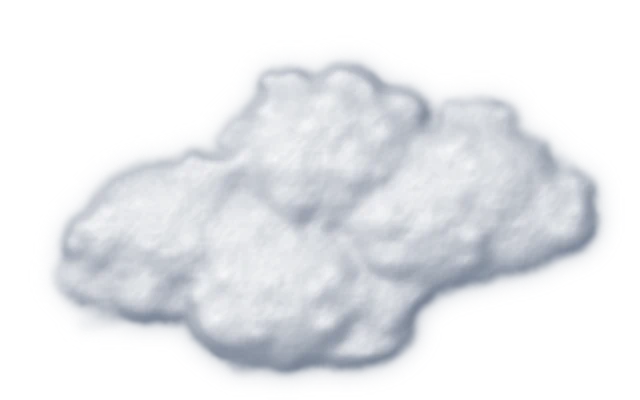
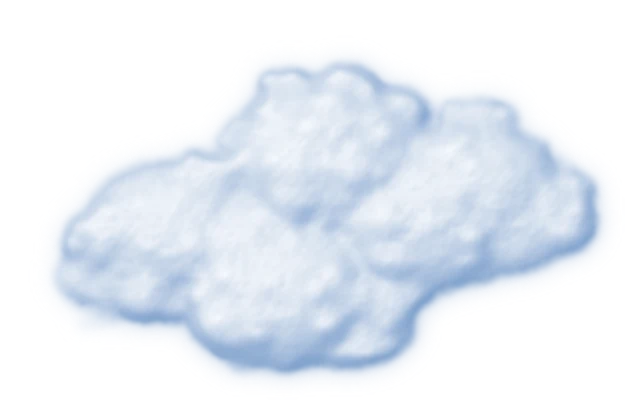
feat: update cloud images and enhance visual elements in the Journey component

diff --git a/src/components/landing/journey/animate.ts b/src/components/landing/journey/animate.ts
@@ -13,8 +13,9 @@ const win = (p: number, a: number, b: number) => {
 
 type Point = { x: number; y: number; ang: number };
 
-/** Opacité maximale des nuages de l'introduction (au-dessus du voile sombre, sous le titre). */
-const INTRO_CLOUD_OPACITY = 0.62;
+/** Opacité maximale des nuages : introduction (au-dessus du ciel, sous le titre) et vol au-dessus de la carte. */
+const INTRO_CLOUD_OPACITY = 0.6;
+const FLIGHT_CLOUD_OPACITY = 0.6;
 
 function at(path: SVGPathElement, len: number, t: number): Point {
   const l = cl(t, 0, 1) * len;
@@ -49,7 +50,7 @@ export function startJourney(sec: HTMLElement) {
   const stage = $<HTMLElement>("#stage");
   const cam = $<SVGGElement>("#cam");
   const cam2 = $<SVGGElement>("#cam2");
-  const veil = $<SVGRectElement>("#veil");
+  const veil = $<SVGGElement>("#veil");
   const P = { A: $<SVGPathElement>("#rA"), R: $<SVGPathElement>("#rR"), S: $<SVGPathElement>("#rS") };
   const B = [$<SVGPathElement>("#bA"), $<SVGPathElement>("#bR"), $<SVGPathElement>("#bS")];
   const L = { A: P.A.getTotalLength(), R: P.R.getTotalLength(), S: P.S.getTotalLength() };
@@ -139,7 +140,12 @@ export function startJourney(sec: HTMLElement) {
       el.setAttribute("y", (ey - ry).toFixed(1));
       el.setAttribute("width", (2 * rx).toFixed(1));
       el.setAttribute("height", (2 * ry).toFixed(1));
-      el.setAttribute("opacity", (INTRO_CLOUD_OPACITY * (1 - rev)).toFixed(3));
+      /* côté texte (gauche sur ordinateur, bas sur mobile), les nuages se fondent dans la brume :
+         sous le voile bleu nuit, ils paraîtraient gris comme des nuages d'orage */
+      const haze = mobile
+        ? 1 - 0.9 * sm(s(ey, Ht * 0.5, Ht * 0.72))
+        : 0.1 + 0.9 * sm(s(ex, Wd * 0.2, Wd * 0.48));
+      el.setAttribute("opacity", (INTRO_CLOUD_OPACITY * haze * (1 - rev)).toFixed(3));
     });
 
     /* itinéraires */
@@ -204,7 +210,7 @@ export function startJourney(sec: HTMLElement) {
 
     /* nuages (parallaxe au-dessus de la carte) */
     const par = 1.7;
-    const cop = alt * (1 - w) * 0.9 * (p < 0.34 ? 1 : 0) * sm(s(p, 0.07, 0.12));
+    const cop = alt * (1 - w) * FLIGHT_CLOUD_OPACITY * (p < 0.34 ? 1 : 0) * sm(s(p, 0.07, 0.12));
     skyClouds.forEach((d, c) => {
       const el = cEls[c];
       const cx = A.x + (d[0] - C.x) * sc * par, cy = A.y + (d[1] - C.y) * sc * par, sz = d[2] * sc * par;

diff --git a/src/components/landing/services/services.css b/src/components/landing/services/services.css
@@ -62,9 +62,9 @@
 /* ---- panneau illustré ---- */
 .svc .art{position:relative;min-height:0;border-radius:20px;overflow:hidden}
 .svc .art svg{position:absolute;inset:0;width:100%;height:100%;overflow:visible}
-.art-truck{background:radial-gradient(circle at 78% 24%,rgba(248,184,11,.18),transparent 42%),linear-gradient(180deg,#18191c,#212328 68%)}
+.art-truck{background:linear-gradient(180deg,#18191c,#212328 68%)}
 .art-ship{background:linear-gradient(180deg,#FFD35A 0%,#F9BE1F 62%)}
-.art-plane{background:linear-gradient(180deg,#e6e9ee 0%,#f4f5f7 100%)}
+.art-plane{background:linear-gradient(180deg,#b4b9c1 0%,#c9cdd3 100%)}
 .art-customs,.art-logistics,.art-consulting{background-size:40px 40px;background-position:center}
 .art-customs{background-color:rgba(22,22,22,.07);background-image:linear-gradient(rgba(22,22,22,.07) 1px,transparent 1px),linear-gradient(90deg,rgba(22,22,22,.07) 1px,transparent 1px)}
 .art-logistics{background-color:#F2F3F5;background-image:radial-gradient(rgba(22,22,22,.16) 1.4px,transparent 1.6px);background-size:22px 22px}
@@ -73,7 +73,6 @@
 /* étiquettes flottantes */
 .svc .chip{position:absolute;z-index:1;display:inline-flex;align-items:center;gap:8px;padding:7px 13px;border-radius:99px;font-size:.8rem;font-weight:500;line-height:1.2;white-space:nowrap;background:rgba(255,255,255,.9);color:#161616;box-shadow:0 8px 20px -10px rgba(22,22,22,.45);backdrop-filter:blur(8px);transition:opacity .6s .35s}
 .svc .chip i{width:7px;height:7px;border-radius:50%;background:#F8B80B;box-shadow:0 0 0 3px rgba(248,184,11,.25)}
-.svc .chip.c1{top:16px;left:16px}
 .svc .chip.c2{right:16px;bottom:16px;transition-delay:.5s}
 .art-truck .chip,.art-consulting .chip{background:rgba(22,22,22,.72);color:#F2F3F5;box-shadow:inset 0 0 0 1px rgba(242,243,245,.12)}
 .art-ship .chip i,.art-customs .chip i{background:#161616;box-shadow:0 0 0 3px rgba(22,22,22,.15)}
@@ -144,9 +143,6 @@
 .svc-stack.js .svc:not(.seen) .chip{opacity:0}
 
 /* ---- tablette / mobile ---- */
-@media (max-width:1100px) and (min-width:821px){
-  .svc .chip.c1{display:none}
-}
 @media (max-width:820px){
   .svc{border-radius:20px;top:calc(72px + var(--i) * 12px);height:calc(100svh - 92px - var(--i) * 12px);min-height:470px;max-height:720px}
   .svc .in{grid-template-columns:1fr;grid-template-rows:auto 1fr;gap:16px;padding:14px}

diff --git a/src/components/landing/services/ServiceArt.tsx b/src/components/landing/services/ServiceArt.tsx
@@ -12,17 +12,13 @@ const ARROW = "/brand/lst-fleche.png";
  * carte au premier plan (classe `.on` posée par ServiceStack).
  */
 export function ServiceArt({ kind }: { kind: ServiceArtKind }) {
-  const { scene, chips } = arts[kind];
+  const { scene, chip } = arts[kind];
   return (
     <div className={`art art-${kind}`} aria-hidden="true">
       {scene}
-      <span className="chip c1">
-        <i />
-        {chips[0]}
-      </span>
       <span className="chip c2">
         <i />
-        {chips[1]}
+        {chip}
       </span>
     </div>
   );
@@ -77,9 +73,6 @@ const truck = (
         <stop offset="1" stopColor="#F8B80B" stopOpacity="0" />
       </linearGradient>
     </defs>
-
-    <circle cx="372" cy="98" r="80" fill="#F8B80B" opacity=".07" />
-    <circle cx="372" cy="98" r="40" fill="#F8B80B" />
 
     <g fill="#26282d">
       {CITY.map(([x, w, h]) => (
@@ -425,11 +418,12 @@ const consulting = (
   </svg>
 );
 
-const arts: Record<ServiceArtKind, { scene: React.ReactNode; chips: [string, string] }> = {
-  truck: { scene: truck, chips: ["National & international", "Porte-à-porte"] },
-  ship: { scene: ship, chips: ["20’ · 40’ · 40’ HC", "Import / Export"] },
-  plane: { scene: plane, chips: ["Envois urgents", "Groupage aérien"] },
-  customs: { scene: customs, chips: ["Documents contrôlés", "Incoterms"] },
-  logistics: { scene: logistics, chips: ["Coordination multimodale", "Flux planifiés"] },
-  consulting: { scene: consulting, chips: ["Diagnostic", "Optimisation des coûts"] },
+/** Illustration et étiquette (en bas à droite) de chaque carte. */
+const arts: Record<ServiceArtKind, { scene: React.ReactNode; chip: string }> = {
+  truck: { scene: truck, chip: "Porte-à-porte" },
+  ship: { scene: ship, chip: "Import / Export" },
+  plane: { scene: plane, chip: "Groupage aérien" },
+  customs: { scene: customs, chip: "Incoterms" },
+  logistics: { scene: logistics, chip: "Flux planifiés" },
+  consulting: { scene: consulting, chip: "Optimisation des coûts" },
 };

diff --git a/src/components/landing/journey/scene.ts b/src/components/landing/journey/scene.ts
@@ -74,7 +74,11 @@ function buildScene() {
 
   // Nuages de l'introduction (ils s'écartent au début du défilement).
   const introClouds: IntroCloud[] = [];
-  for (let n = 0; n < 16; n++) introClouds.push({ x: rnd(), y: rnd(), r: 110 + rnd() * 230, sp: 0.6 + rnd() * 0.8 });
+  // Comme une mer de nuages vue d'avion : beaucoup de petits cumulus et quelques gros.
+  for (let n = 0; n < 26; n++) {
+    const big = rnd() < 0.3;
+    introClouds.push({ x: rnd(), y: rnd(), r: big ? 180 + rnd() * 110 : 60 + rnd() * 100, sp: 0.6 + rnd() * 0.8 });
+  }
 
   return { roads, blocks, stacks, boxes, introClouds };
 }
@@ -88,10 +92,13 @@ export const skyClouds: [number, number, number][] = [
 ];
 
 /**
- * Textures de cumulus vus du dessus (640 × 400, soleil en haut à gauche) et leurs ombres portées.
+ * Textures de cumulus vus du dessus (640 × 400, soleil en haut à gauche, ombres teintées par le bleu du ciel)
+ * et leurs ombres portées.
  * Générées une fois pour toutes (bruit fractal + éclairage) : seules des transformations sont animées.
  */
-export const cloudTexture = (i: number) => `/images/clouds/cloud-${(i % 4) + 1}.webp`;
-export const cloudShadow = (i: number) => `/images/clouds/cloud-shadow-${(i % 4) + 1}.webp`;
+/** À incrémenter quand les images sont régénérées : force les navigateurs à recharger les nouvelles. */
+const CLOUDS_VERSION = 2;
+export const cloudTexture = (i: number) => `/images/clouds/cloud-${(i % 4) + 1}.webp?v=${CLOUDS_VERSION}`;
+export const cloudShadow = (i: number) => `/images/clouds/cloud-shadow-${(i % 4) + 1}.webp?v=${CLOUDS_VERSION}`;
 /** Décalage de l'ombre au sol (vers le bas à droite, à l'opposé du soleil), en coordonnées de la carte. */
 export const CLOUD_SHADOW_OFFSET = { x: 90, y: 140 };

diff --git a/src/components/landing/journey/Journey.tsx b/src/components/landing/journey/Journey.tsx
@@ -38,9 +38,16 @@ export function Journey() {
               <path d="M0 30q15-8 30 0t30 0" fill="none" stroke="#9fd8ff" strokeOpacity=".13" strokeWidth="2" />
               <path d="M66 52q10-5 20 0" fill="none" stroke="#9fd8ff" strokeOpacity=".08" strokeWidth="1.5" />
             </pattern>
-            <radialGradient id="veilG" cx="60%" cy="45%" r="75%">
-              <stop offset="0" stopColor="#23262c" />
-              <stop offset="1" stopColor="#0b0c0e" />
+            {/* ciel de l'introduction : même bleu profond que la mer (--water, #0b2e4c), à peine nuancé,
+                pour que le passage du ciel à la mer soit continu ; léger halo bleu clair */}
+            <linearGradient id="skyG" x1="0" y1="0" x2="0" y2="1">
+              <stop offset="0" stopColor="#0a2844" />
+              <stop offset=".5" stopColor="#0b2e4c" />
+              <stop offset="1" stopColor="#0e3656" />
+            </linearGradient>
+            <radialGradient id="hazeG" cx="70%" cy="35%" r="60%">
+              <stop offset="0" stopColor="#9fd8ff" stopOpacity=".12" />
+              <stop offset="1" stopColor="#9fd8ff" stopOpacity="0" />
             </radialGradient>
           </defs>
 
@@ -176,7 +183,10 @@ export function Journey() {
             </g>
           </g>
 
-          <rect id="veil" x="0" y="0" width="100%" height="100%" fill="url(#veilG)" />
+          <g id="veil">
+            <rect x="0" y="0" width="100%" height="100%" fill="url(#skyG)" />
+            <rect x="0" y="0" width="100%" height="100%" fill="url(#hazeG)" />
+          </g>
           <g id="iclouds">
             {scene.introClouds.map((_, i) => (
               <image key={i} href={cloudTexture(i)} preserveAspectRatio="none" opacity="0" />

diff --git a/src/app/globals.css b/src/app/globals.css
@@ -127,8 +127,9 @@ html{scroll-padding-top:env(safe-area-inset-top,0px)}
 #clouds{position:absolute;inset:0;pointer-events:none;z-index:2}
 /* Nuages du vol : texture de cumulus (image de fond posée en ligne, cf. Journey.tsx). */
 .cl{position:absolute;left:0;top:0;background:center/100% 100% no-repeat;will-change:transform,opacity}
-#scrim{position:absolute;inset:0;z-index:3;pointer-events:none;background:linear-gradient(90deg,rgba(14,16,18,.88) 0%,rgba(14,16,18,.55) 30%,rgba(14,16,18,0) 55%)}
-@media (max-width:820px){ #scrim{background:linear-gradient(0deg,rgba(14,16,18,.92) 0%,rgba(14,16,18,.6) 32%,rgba(14,16,18,0) 55%)} }
+/* Voile de lisibilité des textes : bleu de la mer assombri, sans teinte violette. */
+#scrim{position:absolute;inset:0;z-index:3;pointer-events:none;background:linear-gradient(90deg,rgba(4,24,42,.86) 0%,rgba(4,24,42,.55) 30%,rgba(4,24,42,0) 55%)}
+@media (max-width:820px){ #scrim{background:linear-gradient(0deg,rgba(4,24,42,.92) 0%,rgba(4,24,42,.6) 32%,rgba(4,24,42,0) 55%)} }
 
 .panel{position:absolute;z-index:10;left:clamp(24px,5vw,72px);top:50%;width:min(400px,calc(100% - 48px));transform:translateY(-50%);opacity:0;pointer-events:none}
 #hero{width:min(560px,calc(100% - 48px))}
